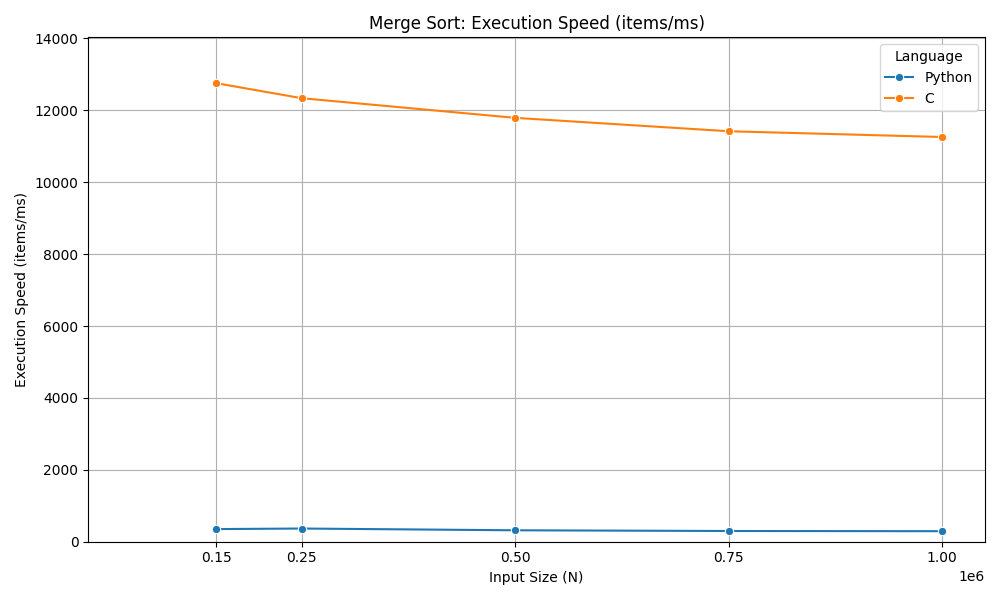
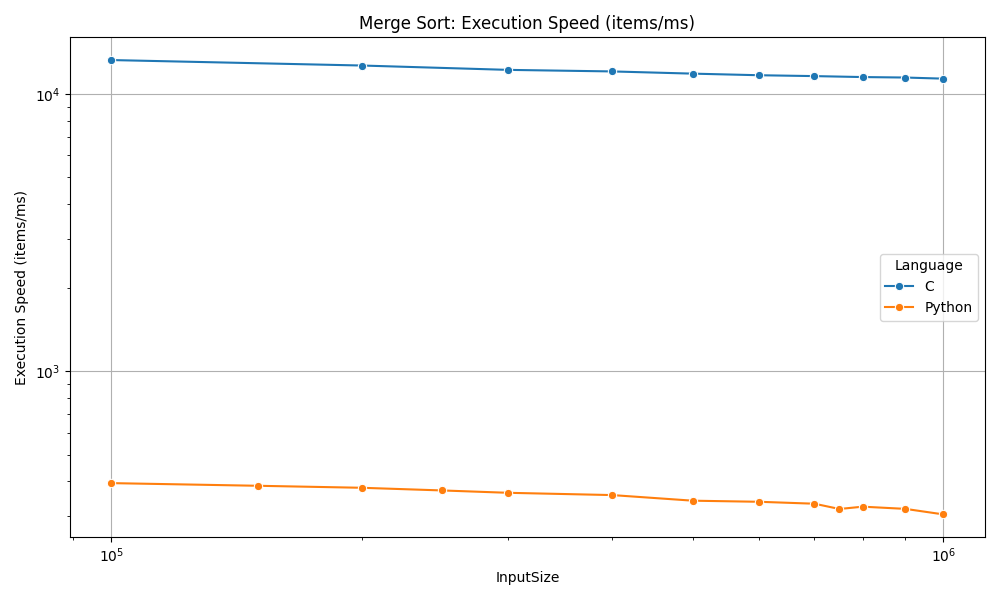
salvando

diff --git a/project/mergesort_comparison.py b/project/mergesort_comparison.py
@@ -1,9 +1,7 @@
 import pandas as pd
-import numpy as np
 import matplotlib.pyplot as plt
 import seaborn as sns
 import math
-from matplotlib.ticker import ScalarFormatter
 from project.constants.mergesort_comparison_constants import *
 
 df_py = pd.read_csv(PYTHON_CSV)
@@ -23,60 +21,104 @@ df_c[COL_LANGUAGE] = LANG_C
 # Merge for comparison
 df_all = pd.concat([df_py, df_c], ignore_index=True)
 
+# Group and average by InputSize and Language to avoid duplicate input sizes (especially for Python)
+df_all_grouped = df_all.groupby([COL_LANGUAGE, COL_INPUT_SIZE], as_index=False).mean(numeric_only=True)
+
 # Calculate execution speed (InputSize / ExecutionTime_ms)
-df_all[COL_EXECSPEED] = df_all[COL_INPUT_SIZE] / df_all[COL_EXEC_TIME]
+df_all_grouped[COL_EXECSPEED] = df_all_grouped[COL_INPUT_SIZE] / df_all_grouped[COL_EXEC_TIME]
 
 # Table: Dataset size, measured time, theoretical complexity, execution speed, language
-summary_table = df_all[[COL_LANGUAGE, COL_INPUT_SIZE, COL_EXEC_TIME, COL_THEORY, COL_EXECSPEED]]
+summary_table = df_all_grouped[[COL_LANGUAGE, COL_INPUT_SIZE, COL_EXEC_TIME, COL_THEORY, COL_EXECSPEED]]
 summary_table = summary_table.sort_values([COL_INPUT_SIZE, COL_LANGUAGE])
 summary_table.to_csv(SUMMARY_CSV, index=False)
+# Create separate plots for each language and metric
 
-# Plot 1: Measured times
+# Plot 1: Measured times (log scale) - Separate plots
+for lang, data in df_all_grouped.groupby(COL_LANGUAGE):
+    plt.figure(figsize=(10,6))
+    sns.lineplot(data=data, x=COL_INPUT_SIZE, y=COL_EXEC_TIME, marker='o', label=lang)
+    plt.title(f"{PLOT_TITLE_TIME} - {lang}")
+    plt.xlabel(COL_INPUT_SIZE)
+    plt.ylabel(Y_LABEL_TIME)
+    plt.grid(True)
+    plt.xscale('log')
+    plt.yscale('log')
+    plt.legend()
+    plt.tight_layout()
+    if lang == LANG_PYTHON:
+        plt.savefig(TIME_COMPARISON_PYTHON_IMG)
+    elif lang == LANG_C:
+        plt.savefig(TIME_COMPARISON_C_IMG)
+
+# Plot 1 Combined: Measured times (log scale)
 plt.figure(figsize=(10,6))
-sns.lineplot(data=df_all, x=COL_INPUT_SIZE, y=COL_EXEC_TIME, hue=COL_LANGUAGE, marker='o')
+sns.lineplot(data=df_all_grouped, x=COL_INPUT_SIZE, y=COL_EXEC_TIME, hue=COL_LANGUAGE, marker='o')
 plt.title(PLOT_TITLE_TIME)
-plt.xlabel(X_LABEL)
+plt.xlabel(COL_INPUT_SIZE)
 plt.ylabel(Y_LABEL_TIME)
 plt.legend(title=LEGEND_LANGUAGE)
 plt.grid(True)
-plt.xticks(df_all[COL_INPUT_SIZE].unique())
-plt.xlim(0, max(df_all[COL_INPUT_SIZE]) * 1.05)
-plt.ylim(0, max(df_all[COL_EXEC_TIME]) * 1.1)
-plt.gca().xaxis.set_major_formatter(ScalarFormatter(useOffset=False, useMathText=False))
-plt.gca().yaxis.set_major_formatter(ScalarFormatter(useOffset=False, useMathText=False))
+plt.xscale('log')
+plt.yscale('log')
 plt.tight_layout()
 plt.savefig(TIME_COMPARISON_IMG)
 
-# Plot 2: Measured time vs Theoretical complexity (normalized)
+# Plot 2: Measured time vs Theoretical complexity - Separate plots
+for lang, data in df_all_grouped.groupby(COL_LANGUAGE):
+    plt.figure(figsize=(10,6))
+    plt.plot(data[COL_INPUT_SIZE], data[COL_EXEC_TIME]/data[COL_THEORY], marker='o', label=lang)
+    plt.title(f"{PLOT_TITLE_THEORY} - {lang}")
+    plt.xlabel(COL_INPUT_SIZE)
+    plt.ylabel(Y_LABEL_THEORY)
+    plt.legend()
+    plt.grid(True)
+    plt.xscale('log')
+    plt.tight_layout()
+    if lang == LANG_PYTHON:
+        plt.savefig(TIME_VS_THEORY_PYTHON_IMG)
+    elif lang == LANG_C:
+        plt.savefig(TIME_VS_THEORY_C_IMG)
+
+# Plot 2 Combined: Measured time vs Theoretical complexity (normalized, log scale)
 plt.figure(figsize=(10,6))
-for lang, group in df_all.groupby(COL_LANGUAGE):
+for lang, group in df_all_grouped.groupby(COL_LANGUAGE):
     plt.plot(group[COL_INPUT_SIZE], group[COL_EXEC_TIME]/group[COL_THEORY], marker='o', label=lang)
 plt.title(PLOT_TITLE_THEORY)
-plt.xlabel(X_LABEL)
+plt.xlabel(COL_INPUT_SIZE)
 plt.ylabel(Y_LABEL_THEORY)
 plt.legend()
 plt.grid(True)
-plt.xticks(df_all[COL_INPUT_SIZE].unique())
-plt.xlim(0, max(df_all[COL_INPUT_SIZE]) * 1.05)
-plt.ylim(0, (df_all[COL_EXEC_TIME]/df_all[COL_THEORY]).max() * 1.1)
-plt.gca().xaxis.set_major_formatter(ScalarFormatter(useOffset=False, useMathText=False))
-plt.gca().yaxis.set_major_formatter(ScalarFormatter(useOffset=False, useMathText=False))
+plt.xscale('log')
 plt.tight_layout()
 plt.savefig(TIME_VS_THEORY_IMG)
 
-# Plot 3: Execution speed
+# Plot 3: Execution speed - Separate plots
+for lang, data in df_all_grouped.groupby(COL_LANGUAGE):
+    plt.figure(figsize=(10,6))
+    sns.lineplot(data=data, x=COL_INPUT_SIZE, y=COL_EXECSPEED, marker='o', label=lang)
+    plt.title(f"{PLOT_TITLE_SPEED} - {lang}")
+    plt.xlabel(COL_INPUT_SIZE)
+    plt.ylabel(Y_LABEL_SPEED)
+    plt.legend()
+    plt.grid(True)
+    plt.xscale('log')
+    plt.yscale('log')
+    plt.tight_layout()
+    if lang == LANG_PYTHON:
+        plt.savefig(EXECSPEED_PYTHON_IMG)
+    elif lang == LANG_C:
+        plt.savefig(EXECSPEED_C_IMG)
+
+# Plot 3 Combined: Execution speed (log scale)
 plt.figure(figsize=(10,6))
-sns.lineplot(data=df_all, x=COL_INPUT_SIZE, y=COL_EXECSPEED, hue=COL_LANGUAGE, marker='o')
+sns.lineplot(data=df_all_grouped, x=COL_INPUT_SIZE, y=COL_EXECSPEED, hue=COL_LANGUAGE, marker='o')
 plt.title(PLOT_TITLE_SPEED)
-plt.xlabel(X_LABEL)
+plt.xlabel(COL_INPUT_SIZE)
 plt.ylabel(Y_LABEL_SPEED)
 plt.legend(title=LEGEND_LANGUAGE)
 plt.grid(True)
-plt.xticks(df_all[COL_INPUT_SIZE].unique())
-plt.xlim(0, max(df_all[COL_INPUT_SIZE]) * 1.05)
-plt.ylim(0, max(df_all[COL_EXECSPEED]) * 1.1)
-plt.gca().xaxis.set_major_formatter(ScalarFormatter(useOffset=False, useMathText=False))
-plt.gca().yaxis.set_major_formatter(ScalarFormatter(useOffset=False, useMathText=False))
+plt.xscale('log')
+plt.yscale('log')
 plt.tight_layout()
 plt.savefig(EXECSPEED_IMG)
 
@@ -85,3 +127,6 @@ print(SUMMARY_PRINT)
 print(summary_table.head(10).to_string(index=False))
 
 print(CHARTS_SAVED_PRINT)
+
+
+

diff --git a/project/constants/mergesort_comparison_constants.py b/project/constants/mergesort_comparison_constants.py
@@ -5,8 +5,14 @@ PYTHON_CSV = DATA_DIR + 'datasheet_python.csv'
 C_CSV = DATA_DIR + 'datasheet_clang.csv'
 SUMMARY_CSV = DATA_DIR + 'mergesort_comparison_summary.csv'
 TIME_COMPARISON_IMG = IMG_DIR + 'mergesort_time_comparison.png'
+TIME_COMPARISON_PYTHON_IMG = IMG_DIR + 'mergesort_time_comparison_python.png'
+TIME_COMPARISON_C_IMG = IMG_DIR + 'mergesort_time_comparison_c.png'
 TIME_VS_THEORY_IMG = IMG_DIR + 'mergesort_time_vs_theory.png'
+TIME_VS_THEORY_PYTHON_IMG = IMG_DIR + 'mergesort_time_vs_theory_python.png'
+TIME_VS_THEORY_C_IMG = IMG_DIR + 'mergesort_time_vs_theory_c.png'
 EXECSPEED_IMG = IMG_DIR + 'mergesort_execspeed_comparison.png'
+EXECSPEED_PYTHON_IMG = IMG_DIR + 'mergesort_execspeed_comparison_python.png'
+EXECSPEED_C_IMG = IMG_DIR + 'mergesort_execspeed_comparison_c.png'
 X_LABEL = 'Input Size (N)'
 
 # String constants

diff --git a/project/orchestrator.py b/project/orchestrator.py
@@ -5,7 +5,7 @@ from project.constants.orchestrator_constants import *
 
 def run_python_benchmark():
     print(PRINT_RUNNING_PY)
-    result = subprocess.run([sys.executable, PYTHON_BENCHMARK], capture_output=True, text=True)
+    result = subprocess.run(PYTHON_BENCHMARK_SCRIPT, capture_output=True, text=True)
     print(result.stdout)
     if result.returncode != 0:
         print(result.stderr)
@@ -28,7 +28,7 @@ def build_and_run_c_benchmark():
 
 def run_comparison():
     print(PRINT_RUNNING_COMP)
-    result = subprocess.run([sys.executable, COMPARISON_SCRIPT], capture_output=True, text=True)
+    result = subprocess.run(COMPARISON_SCRIPT, capture_output=True, text=True)
     print(result.stdout)
     if result.returncode != 0:
         print(result.stderr)

diff --git a/project/constants/orchestrator_constants.py b/project/constants/orchestrator_constants.py
@@ -1,9 +1,9 @@
 # Constants for the orchestrator script
 
-PYTHON_BENCHMARK = 'project.mergesort'
+PYTHON_BENCHMARK_SCRIPT = ['python3', '-m', 'project.mergesort']
 C_BENCHMARK = 'project/mergesort.c'
 C_OUTPUT = 'output/mergesort'
-COMPARISON_SCRIPT = 'project/mergesort_comparison.py'
+COMPARISON_SCRIPT = ['python3', '-m','project.mergesort_comparison']
 PYTHON_RESULTS = 'project/data/datasheet_python.csv'
 C_RESULTS = 'project/data/datasheet_clang.csv'
 SUMMARY_CSV = 'project/data/mergesort_comparison_summary.csv'
